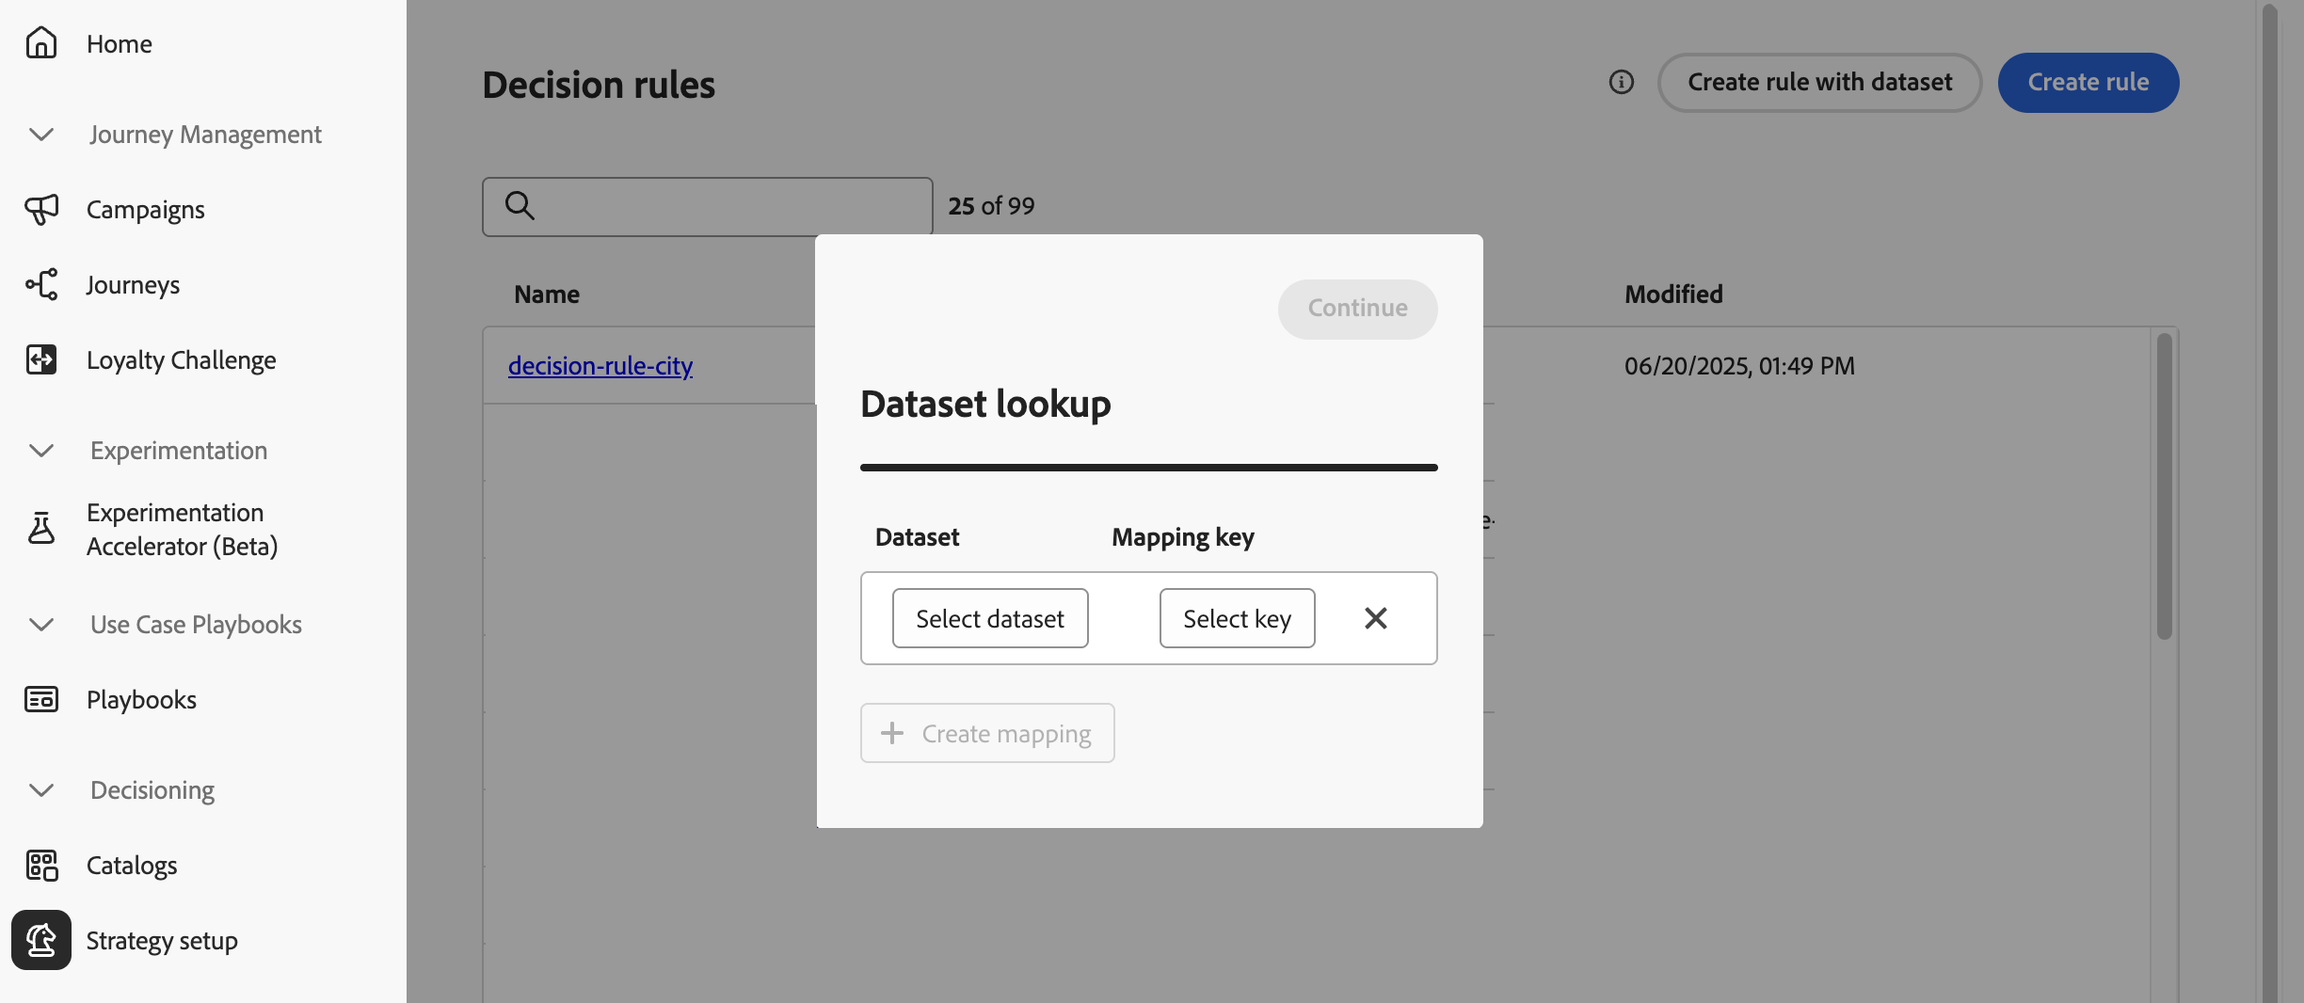
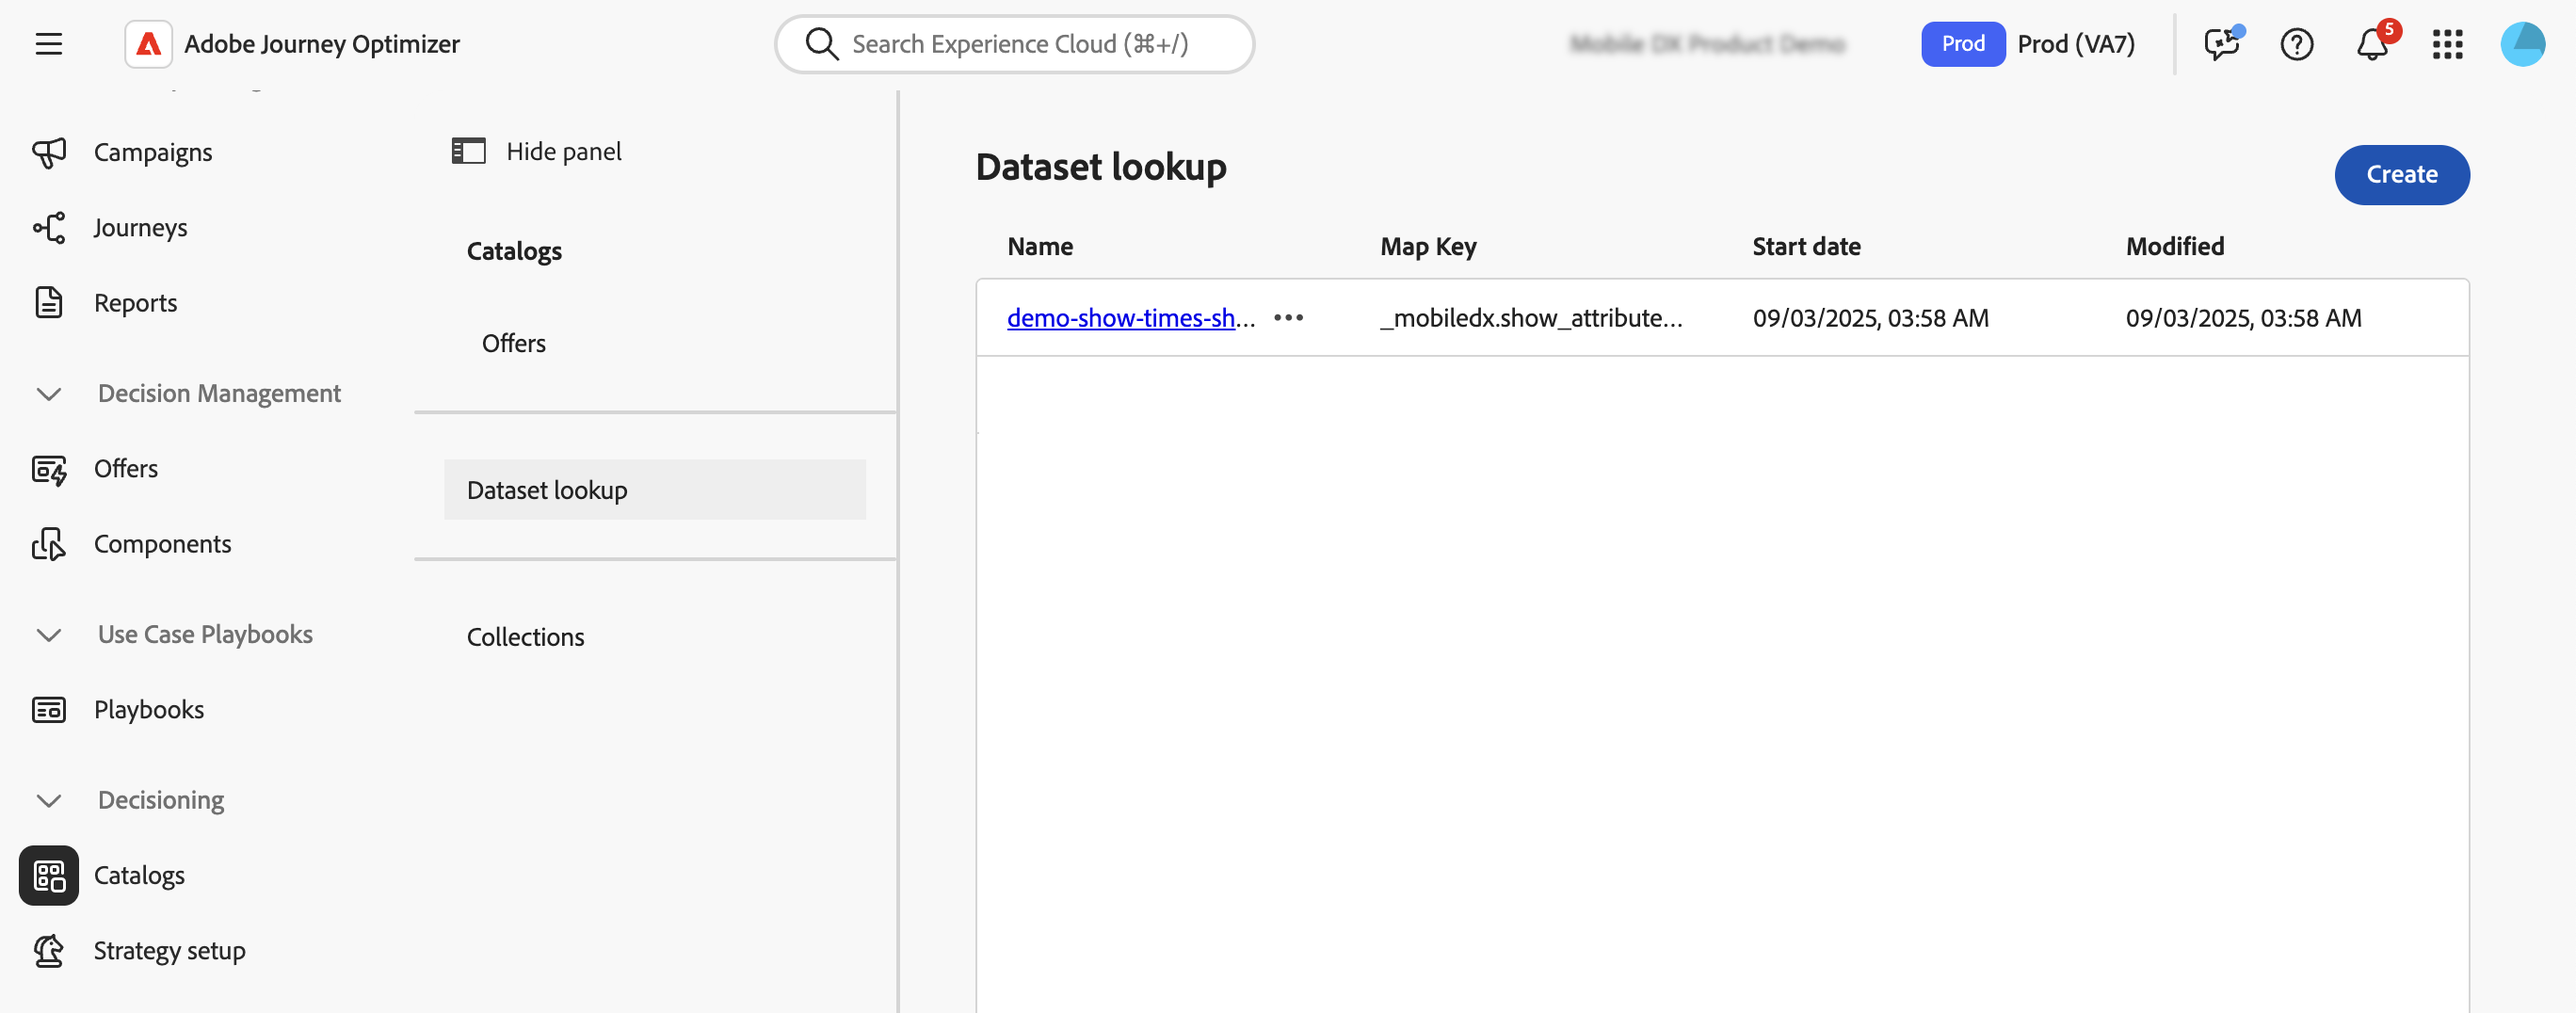
Docac 12990/13373 lookup feature for decisioning (#2053)
* decisioning lookup in progress

* updates

* fix

* fix

* update rn

* update

diff --git a/help/using/experience-decisioning/aep-data-exd.md b/help/using/experience-decisioning/aep-data-exd.md
@@ -29,27 +29,45 @@ exl-id: 46d868b3-01d2-49fa-852b-8c2e2f54292f
 
 [!DNL Journey Optimizer] allows you to leverage data from [!DNL Adobe Experience Platform] for Decisioning. This allows you to extend the definition of your decision attributes to additional data in datasets for bulk updates that change periodically without having to manually update the attributes one at a time. For example, availability, wait times, etc.
 
-Before starting, datasets needed for lookup personalization must first be enabled for lookup. Detailed information are available in this section: [Use Adobe Experience Platform data](../data/lookup-aep-data.md).
+>[!IMPORTANT]
+>
+>[!DNL Journey Optimizer ]supports up to 1000 lookups for a single decision policy.
 
-## Guardrails & limitations {#guidelines}
+## Prerequisites
 
-Before you begin, take note of the following restrictions and guidelines:
+### Enable datasets for lookup
 
-* A decision policy can reference up to 3 datasets total, across all its decision rules and ranking formulas combined. For example, if your rules use 2 datasets, your formulas can only use 1 additional dataset.
-* A decision rule can use 3 datasets.
-* A ranking formula can use 3 datasets.
-* When a decision policy is evaluated, the system will perform up to 1000 dataset queries (lookups) in total. Each dataset mapping used by a decision item counts as one query. Example: If a decision item uses 2 datasets, evaluating that offer counts as 2 queries toward the 1000-query limit.
+Before starting, datasets needed for decisioning must first be enabled for lookup. Follow the steps detailed in this section: [Use Adobe Experience Platform data](../data/lookup-aep-data.md).
+
+### Create mappings
+
+In order to use attributes from Adobe Experience Platform for decisioning, you need to create a mapping to define how the Adobe Experience Platform dataset joins with data in [!DNL Journey Optimizer]. To do so, follow these steps: 
+
+1. Navigate to **[!UICONTROL Catalogs]** / **[!UICONTROL Dataset lookup]** then click **[!UICONTROL Create]**.
+
+    ![](assets/exd-lookup-mapping.png)
+
+1. Configure the mapping: 
+
+    1. Click **[!UICONTROL Select dataset]** to display all Adobe Experience Platform that have been enabled for lookup. Select the dataset with the attributes you need.
+
+    1. Click **[!UICONTROL Select key]** to choose a joining key (e.g., flight number or customer ID) that exists in both the decision item attributes and the dataset.
+
+    ![](assets/exd-lookup-mapping-create.png)
+
+1. Click **[!UICONTROL Save]**.
 
 ## Leverage Adobe Experience Platform data {#leverage-aep-data}
 
-Once a dataset is enabled for lookup, you can use its attributes to enrich your decision logic with external data. This is especially useful for attributes that frequently change, such as product availability, or real-time pricing.
+Once a dataset is enabled for lookup and mappings have been created, you can use the data to enrich your decision logic with external data. This is especially useful for attributes that frequently change, such as product availability, or real-time pricing.
 
 Attributes from Adobe Experience Platform datasets can be used in two parts of decision logic:
 
 * **Decision rules**: Define whether a decision item is eligible to be shown.
 * **Ranking formulas**: Prioritize decision items based on external data.
+* **Capping rules**: Use external data to calculate the threhold for capping rules.
 
-The next sections explain how to use Adobe Experience Platform data in both contexts.
+The next sections explain how to use Adobe Experience Platform data in these contexts.
 
 ### Decision rules {#rules}
 
@@ -63,16 +81,9 @@ To use Adobe Experience Platform data into decision rules, follow these steps:
 
     ![](assets/exd-lookup-rule.png)
 
-1. Click **[!UICONTROL Create mapping]** to define how the Adobe Experience Platform dataset joins with data in [!DNL Journey Optimizer].
-
-    * Select the dataset with the attributes you need.
-    * Choose a joining key (e.g., product ID or store ID) that exists in both the decision item attributes and the dataset.
-
-    ![](assets/exd-lookup-mapping.png)
+1. Click **[!UICONTROL Add dataset]** then select the dataset with the attributes you need.
     
-    >[!NOTE]
-    >
-    >You can create up to 3 mappings per rule.
+    ![](assets/exd-lookup-select-dataset.png)
 
 1. Click **[!UICONTROL Continue]**. You can now access the dataset attributes in the **[!UICONTROL Dataset Lookup]** menu and use them in your rule conditions. [Learn how to create a decision rule](../experience-decisioning/rules.md#create)
 
@@ -86,19 +97,54 @@ For example, let's say an airline uses a ranking formula to prioritize upgrade o
 
 To use Adobe Experience Platform data into ranking formulas, follow these steps:
 
-1. Create or edit a ranking formula. In the **[!UICONTROL Dataset lookup]** section, click **[!UICONTROL Create mapping]**. 
+1. Create or edit a ranking formula.
 
-1. Define the dataset mapping:
+1. In the **[!UICONTROL Dataset lookup]** section, click **[!UICONTROL Add dataset]**. 
 
-    * Select the appropriate dataset (e.g., seat availability by flight).
-    * Choose a joining key (e.g., flight number or customer ID)  that exists in both the decision item attributes and the dataset.
+1. Select the appropriate dataset.
 
-    ![](assets/exd-lookup-formula-mapping.png)
-    
+    ![](assets/exd-lookup-formula-dataset.png)
+
     >[!NOTE]
     >
-    >You can create up to 3 mappings per ranking formula.
+    >If the dataset you are looking for does not display in the list, make sure you have enabled it for lookup and you have created a dataset lookup mapping. For mroe details, refer to the [Prerequisites](#prerequisites) section.
 
 1. Use the dataset fields to build your ranking formula as usual. [Learn how to create a ranking formula](ranking/ranking-formulas.md#create-ranking-formula)
 
     ![](assets/exd-lookup-formula-criteria.png)
+
+### Capping rules {#capping-rules}
+
+Capping rules are used as constraints to define the maximum number of times a decision item can be presented. Using Adobe Experience Platform data in capping rules allows you to define capping criteria based on dynamic, external attributes. This is done by using an expression in your capping rule to calculate the desired capping threshold.
+
+For example, a retailer may want to cap an offer based on real-time product inventory. Instead of setting a fixed threshold of 500, they use an expression referencing the `inventory_count` field from an Adobe Experience Platform dataset. If the dataset shows that 275 items remain in stock, the offer will only be delivered up to that number.
+
+>[!NOTE]
+>
+>Capping rule **expressions** are currently available as a Limited Availability capability to all users, and are supported only for the **[!UICONTROL In total]** capping type.
+
+To use Adobe Experience Platform data into capping rules expressions, follow these steps:
+
+1. Create or edit a decision item.
+
+1. When defining the item eligibility, click **[!UICONTROL Add dataset]** and select the appropriate dataset.
+
+    ![](assets/exd-lookup-capping.png)
+
+    >[!NOTE]
+    >
+    >If the dataset you are looking for does not display in the list, make sure you have enabled it for lookup and you have created a dataset lookup mapping. For mroe details, refer to the [Prerequisites](#prerequisites) section.
+
+1. Select the **[!UICONTROL In total]** capping type then enable the **[!UICONTROL Expression]** option.
+
+    ![](assets/exd-lookup-capping-expression.png)
+
+    >[!NOTE]
+    >
+    >If the dataset you are looking for does not display in the list, make sure you have enabled it for lookup and you have created a dataset lookup mapping. For mroe details, refer to the [Prerequisites](#prerequisites) section.
+
+1. Edit the expression and use the dataset fields to build your expression.
+
+    ![](assets/exd-lookup-capping-attribute.png)
+
+1. Complete the configuration of your capping and rule decision item as usual. [Learn how to set capping rules](../experience-decisioning/items.md#capping)

diff --git a/help/using/experience-decisioning/items.md b/help/using/experience-decisioning/items.md
@@ -103,7 +103,7 @@ When you select audiences or decision rules, you can see information on the esti
 
 ## Set capping rules {#capping}
 
-Capping is used as a constraint to define the maximum number of times an offer can be presented. Limiting the number of times users get specific offers allows you to avoid over-solicitating your customers and thus to optimize each touchpoint with the best offer. You can create up to 10 cappings for a given decision item.
+Capping is used as a constraint to define the maximum number of times an offer item can be presented. Limiting the number of times users get specific offers allows you to avoid over-solicitating your customers and thus to optimize each touchpoint with the best offer. You can create up to 10 cappings for a given decision item.
 
 ![](assets/item-capping.png)
 
@@ -112,7 +112,17 @@ Capping is used as a constraint to define the maximum number of times an offer c
 >
 >The capping counter value can take up to 3 seconds to update. For example, let's say you are displaying a web banner showcasing an offer on your website. If a given user browses to the next page of your website in less than 3 seconds, the counter value will not be incremented for that user.
 
-To set capping rules for the decision item, click the **[!UICONTROL Create capping]** button then follow these steps:
+When configuring capping rules, you can reference attributes stored in Adobe Experience Platform datasets to define thresholds. To use a dataset, select it in the **[!UICONTROL Dataset]** section.
+
+![](assets/exd-lookup-capping.png)
+
+>[!NOTE]
+>
+>This capabilitiy is currently available as a Limited Availability to all users. Detailed information on how to use it is available in this section: [Use Adobe Experience Platform data for Decisioning](../experience-decisioning/aep-data-exd.md)
+
+To set capping rules for the decision item, click the **[!UICONTROL Create capping]** button then follow the steps detailed below.
+
+![](assets/item-capping-create.png)
 
 1. Define which **[!UICONTROL Capping event]** will be taken into account to increase the counter.
 
@@ -133,9 +143,31 @@ To set capping rules for the decision item, click the **[!UICONTROL Create cappi
 
     * Select **[!UICONTROL Per profile]** to define how many times the offer can be proposed to the same user. For example, if you are a bank with a 'Platinum credit card' offer, you do not want this offer to be shown more than 5 times per profile. Indeed, you believe that if the user has seen the offer 5 times and not acted on it, they have a higher chance to act on the next best offer.
 
-1. In the **[!UICONTROL Capping count limit]** field, specify the number of times the offer can be presented to all users or per profiles, depending on the selected capping type. The number must be an integer greater than 0.
+1. Define the capping threshold. To do so, you can either enter a static value, or calculate the threshold using an expression. Expand the sections below for more details.
+
+    +++Static threshold
+
+    In the **[!UICONTROL Capping count limit]** field, specify the number of times the offer can be presented to all users or per profiles, depending on the selected capping type. The number must be an integer greater than 0.
 
     For example, you defined a custom capping event such as the number of checkouts is taken into account. If you enter 10 in the **[!UICONTROL Capping count limit]** field, no more offers will be sent after 10 checkouts.
+
+    +++
+
+    +++Expression threshold
+
+    Rather that using a static value for the capping threshold, you can define your own expression. This allows you to calculate the threshold dynamically using decision attributes and/or external attributes from an Adobe Experience Platform dataset.
+
+    For example, a marketer may decide to add a multiplier to adjust exposure. For instance, they could multiply the available inventory by two, allowing the offer to be shown to twice as many customers as units available. This approach anticipates that not all customers will convert, ensuring better reach without overselling.
+    
+    >[!NOTE]
+    >
+    >Capping rule **expressions** are currently available as a Limited Availability to all users. They are supported only for the **[!UICONTROL In total]** capping type.
+    
+    To use an expression, enable the **[!UICONTROL Expression]** option then edit the expression as desired.
+
+    ![](assets/exd-lookup-capping-expression.png)
+
+    +++
 
 1. In the **[!UICONTROL Reset capping frequency]** drop-down list, set the frequency at which the capping counter is reset. To do this, define the time period for the counting (daily, weekly or monthly) and enter the number of days/weeks/months of your choice. For example, if you want the capping count to be reset every 2 weeks, select **[!UICONTROL Weekly]** from the corresponding drop-down list and type **2** in the other field.
 
@@ -182,3 +214,4 @@ Selecting a decision item or clicking the ellipsis button enables the actions de
     ![](assets/item-undo.png)
 
 * **[!UICONTROL Archive]**: Sets the decision item status to **[!UICONTROL Archived]**. The decision item is still available from the list, but you cannot set its status back to **[!UICONTROL Draft]** or **[!UICONTROL Approved]**. You can only duplicate or delete it.
+

diff --git a/help/using/rn/release-notes.md b/help/using/rn/release-notes.md
@@ -18,6 +18,8 @@ exl-id: 06fa956a-b500-416e-9d42-b683c328e837
 
 ## September'25 updates {#sep-updates}
 
+### New capabilities {#Sep-25-features}
+
 <table>
 <thead>
 <tr>
@@ -70,7 +72,8 @@ exl-id: 06fa956a-b500-416e-9d42-b683c328e837
 <li>The "datasetLookup" helper function can now be used within expression fragments.</li>
 <li>An option in the dataset management interface now allows you to enable record-based datasets for lookup personalization, without having to perform an API call.</li>
 <li>Enhanced monitoring to track data ingestion status and know when datasets are ready for lookup.</li>
-<li>Updated usage guidelines and guardrails to ensure optimal performance and reliability.</li></ul></p>
+<li>Updated usage guidelines and guardrails to ensure optimal performance and reliability.</li>
+<li>Adobe Experience Platform Datasets can now be leveraged in Decisioning capping rules.</li></ul></p>
 <p>For more information, refer to the <a href="../data/lookup-aep-data.md">detailed documentation</a></p>
 <p>Availability date: Sept 1, 2025</p>
 </td>
@@ -78,7 +81,9 @@ exl-id: 06fa956a-b500-416e-9d42-b683c328e837
 </tbody>
 </table>
 
-### Improvements {#Sept-25-8-improv}
+### Improvements {#Sep-25-improv}
+
+* **Expression for Decisioning capping rules** - You can now build your own expressions to define the threshold of a capping rule for a decision item. [Read more](../experience-decisioning/items.md#capping)
 
 * **Administration**
 
